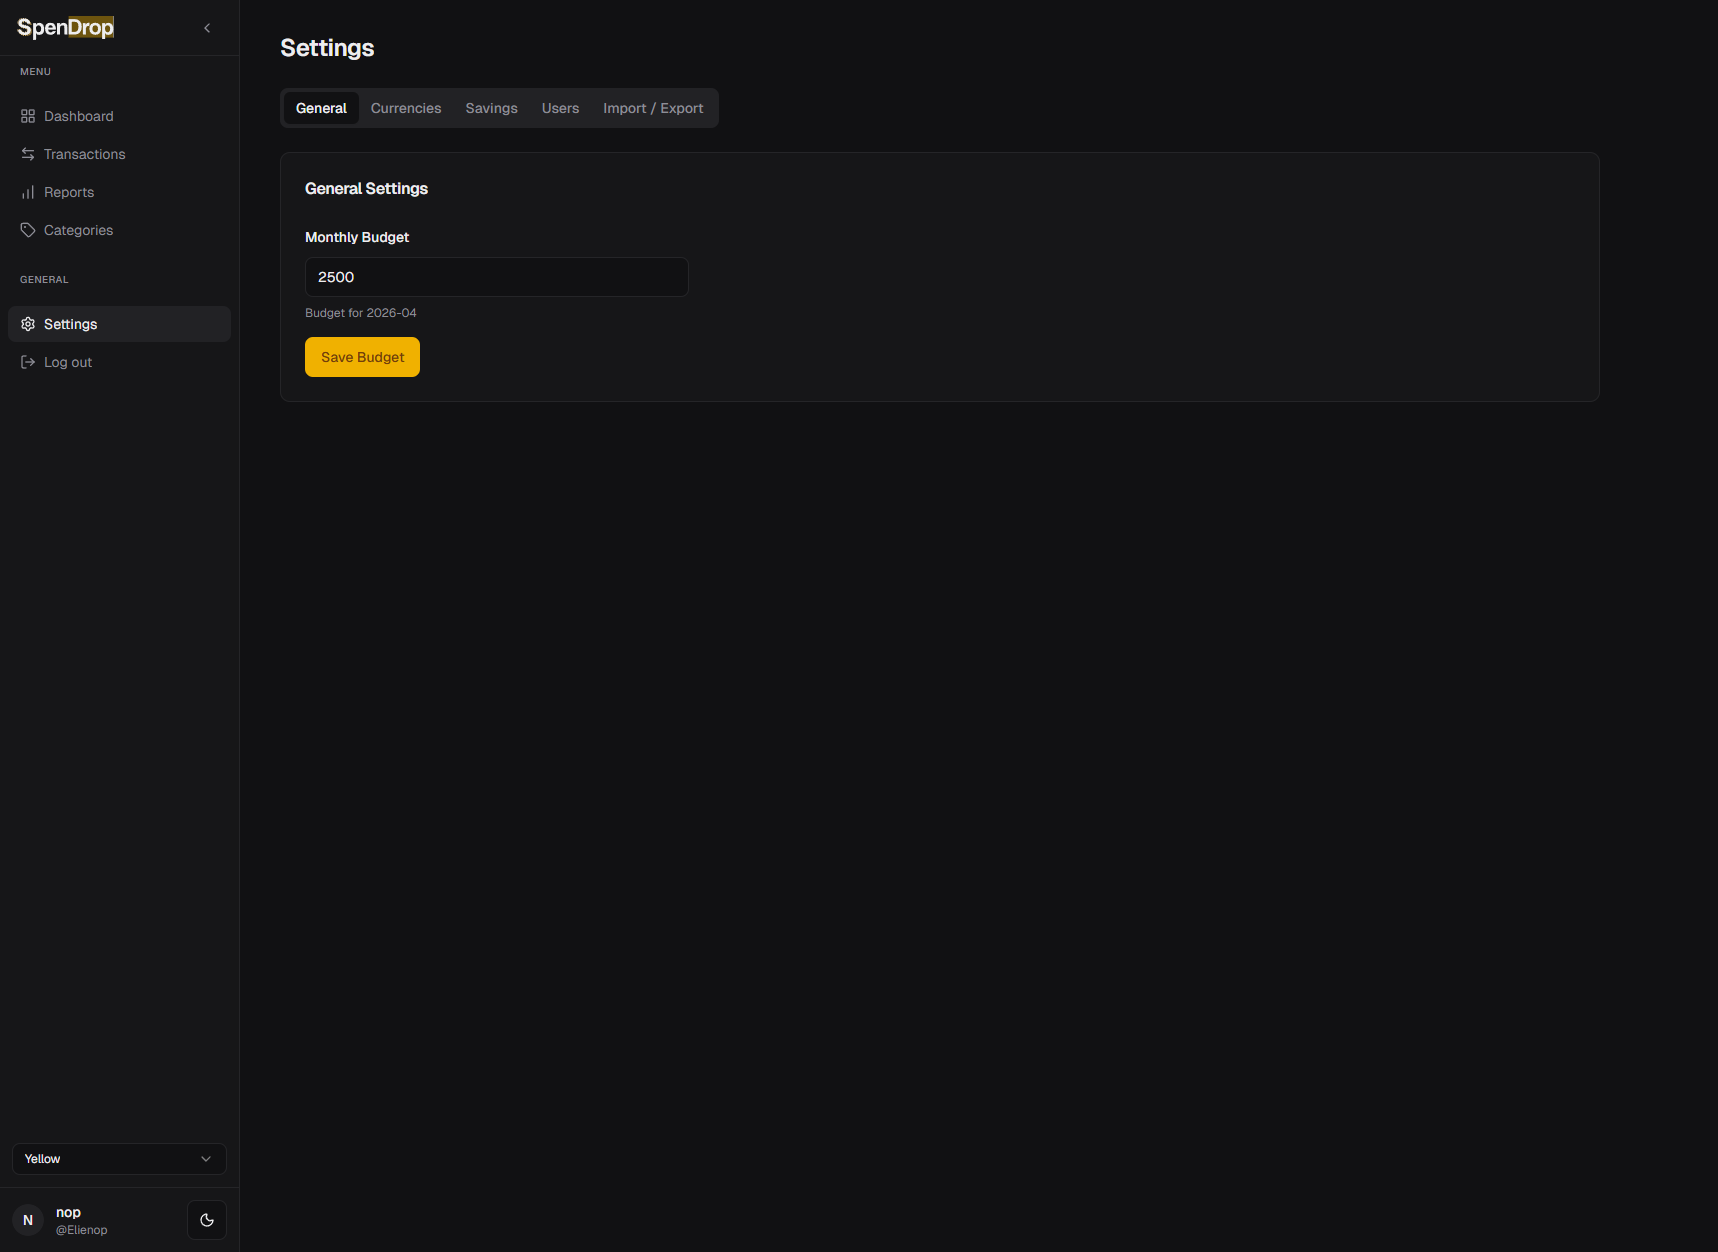
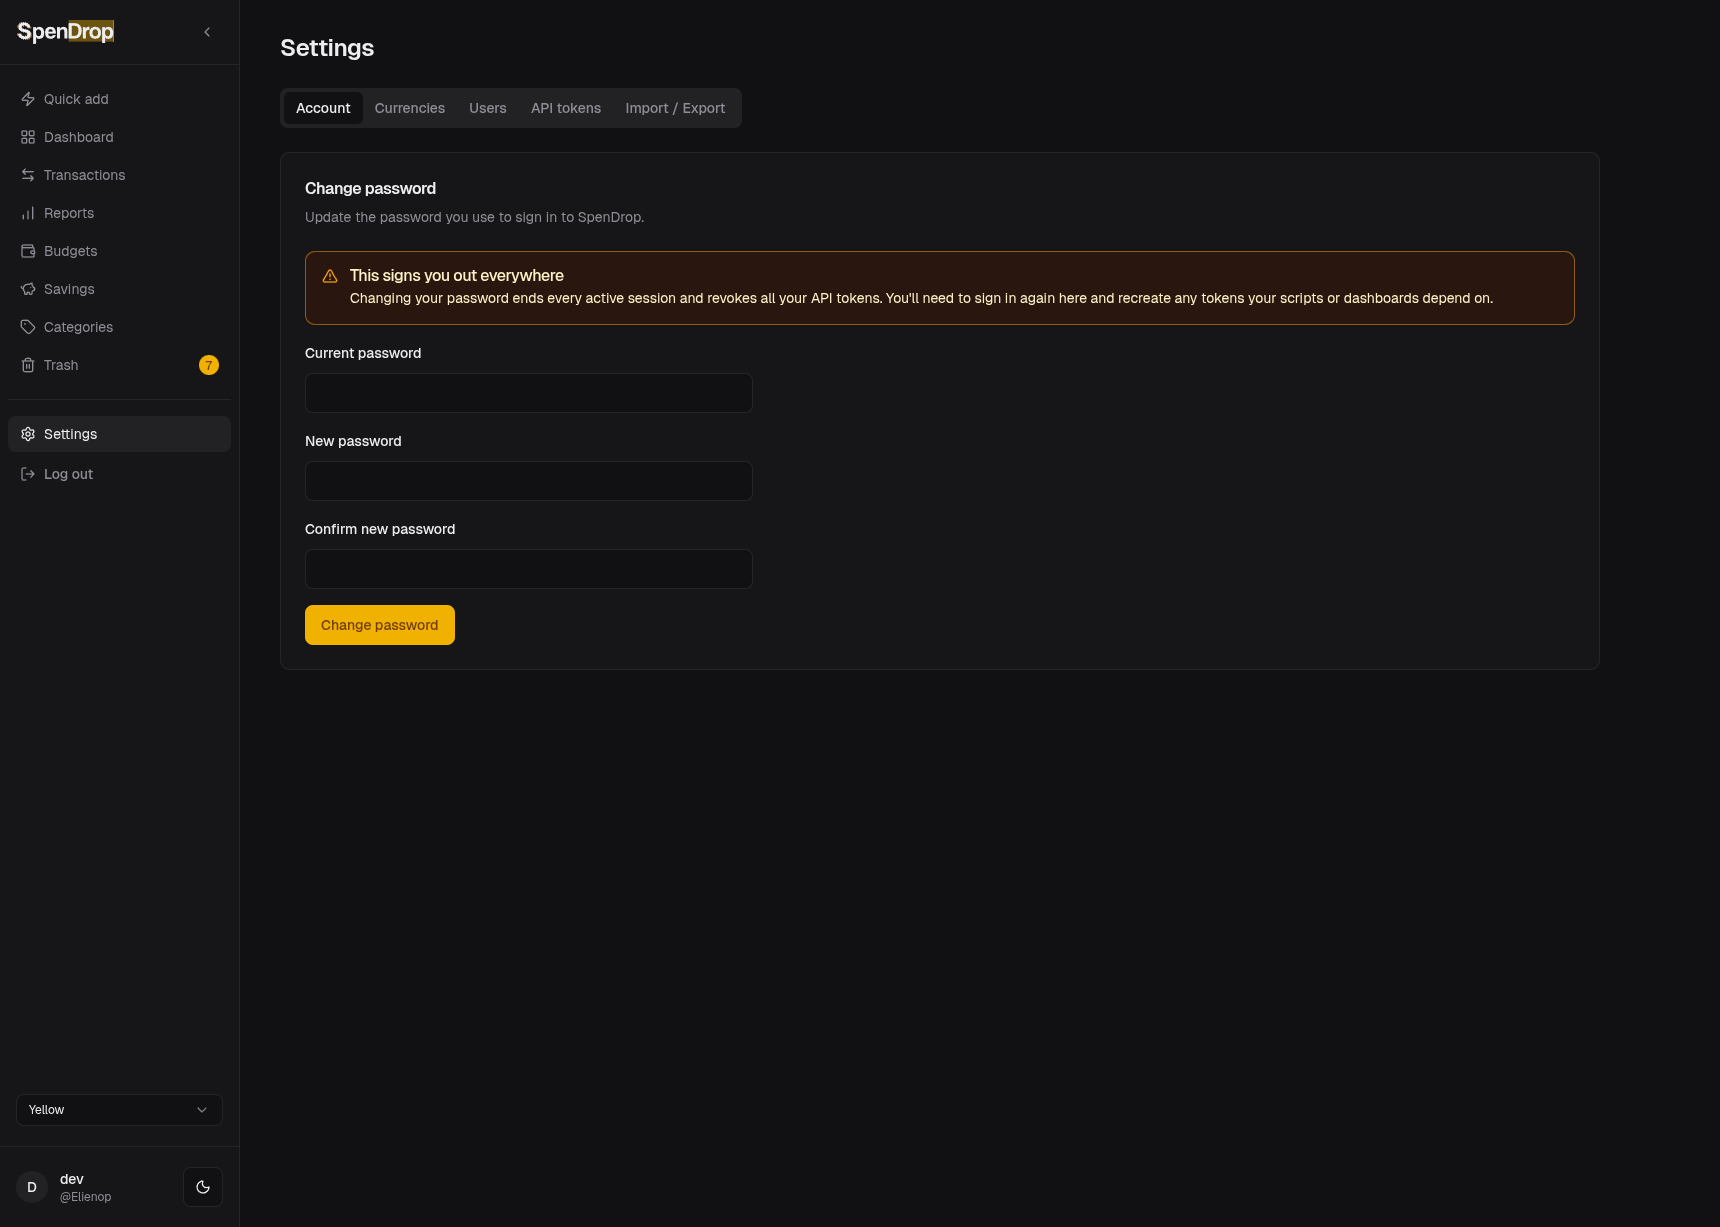
docs(readme): document Budgets and Savings pages + Trash count
- Two new feature sections in the order they sit in the sidebar:
  - **Budgets** — Monthly Budgets + Category Limits on /budgets, with the
    discard-edits guard across year picker, sidebar clicks, and browser
    Back/Forward.
  - **Savings** — Savings Goals on /savings with the replace-existing
    warning and the destructive-action confirm.
- Settings section rewritten: lists the tabs that actually exist now
  (Account · Currencies · Users · API tokens · Import/Export) and points
  old `?tab=budgets|savings|general` bookmarks at the new pages via
  the forwarding toast.
- Additional Features section mentions the Trash count badge (numeric
  pill expanded, colored dot collapsed) and the ColorThemePicker, both
  of which the chosen accent flows through.

Screenshots:
- Replaced docs/screenshots/08-settings.png with the new tab list.
- Added docs/screenshots/11-budgets.png and 12-savings.png.

Older screenshots (01-07) still show the previous sidebar layout —
they remain accurate to their page content; refreshing the sidebar
chrome across all of them is a follow-up if you ever want to.

diff --git a/README.md b/README.md
@@ -80,6 +80,21 @@ Four report tabs covering different angles of your finances:
 ![Reports Savings](docs/screenshots/05-reports-savings.png)
 ![Reports Patterns](docs/screenshots/06-reports-patterns.png)
 
+### Budgets
+
+Plan and track your spending limits on a dedicated page with two editors:
+
+- **Monthly Budgets** -- One row per month for the chosen year. Quick actions apply the same amount to every month or copy the previous year's plan; the year picker, sidebar clicks, and browser Back / Forward all prompt to discard before losing unsaved edits.
+- **Category Limits** -- Optional per-category monthly spending caps. Admins set them; everyone can read them. Compared against actual spend in Reports.
+
+![Budgets](docs/screenshots/11-budgets.png)
+
+### Savings
+
+Yearly **Savings Goals** are set on their own page and tracked under Reports → Savings. Picking a year that already has a goal surfaces a "Replace" warning -- title, button, and toast all flip so the new amount can't silently overwrite the old one. Deletes go through an explicit confirm dialog.
+
+![Savings](docs/screenshots/12-savings.png)
+
 ### Categories
 
 Manage expense and income categories with color-coded badges, type labels (Expense/Income), and per-row action menus (edit, deactivate, delete). Deactivated categories stay attached to past transactions but no longer appear in the entry dropdown.
@@ -88,12 +103,10 @@ Manage expense and income categories with color-coded badges, type labels (Expen
 
 ### Settings
 
-Tabbed settings page:
+Tabbed settings page covering account and system configuration. Monthly Budgets, Category Limits, and Savings Goals each have their own top-level page (see [Budgets](#budgets) and [Savings](#savings) above); old `?tab=budgets` / `?tab=savings` / `?tab=general` bookmarks land on Account with a one-shot toast offering to open the new page directly.
 
-- **General** -- Editable table of monthly budgets for any year (one row per month), plus **Category Limits**: optional per-category monthly spending caps for any month (admins set them; everyone can view).
 - **Account** -- Change your own password. Changing it signs you out everywhere and revokes all of your API tokens. Available to every user.
 - **Currencies** -- Manage currencies with exchange rates (LBP, EUR to USD base)
-- **Savings** -- Yearly savings goals
 - **Users** -- Admin user management (create, edit roles, delete, and reset a member's password)
 - **API tokens** -- Mint, list, and revoke long-lived bearer tokens scoped to your user account. Tokens are show-once on creation (you will never see the plaintext again) and are revoked automatically when you change your password. Use them to authenticate any script, dashboard, or third-party integration against SpenDrop without a browser session — see [Using API tokens](#using-api-tokens) for curl and Homepage examples.
 - **Import / Export** -- Upload Excel files, preview and edit rows inline (date / description / amount), mark rows to skip, resolve duplicate-content collisions before confirming; export transactions or monthly/yearly reports. Sessions persist for 60 minutes and survive browser reloads.
@@ -110,7 +123,8 @@ Simple username/password auth with bcrypt hashing and HTTP-only session cookies.
 ### Additional Features
 
 - **Dark and light themes** with system preference detection, toggle in sidebar
-- **Collapsible sidebar** with pin toggle, state persisted in localStorage
+- **Collapsible sidebar** with pin toggle, state persisted in localStorage. A small counter next to **Trash** shows how many transactions are waiting to be restored or purged (a colored dot in collapsed mode), tinted to the user's chosen accent theme
+- **Color theme picker** in the sidebar (Violet, Yellow, Blue, ...) -- the chosen accent flows through buttons, the active sidebar row, and the Trash counter so the whole app stays in palette
 - **Responsive layout** with max-width 1400px for wide-screen readability
 - **Saved filters** -- save and recall transaction filter presets
 - **Bulk operations** -- select transactions on the current page, or select every row matching the current filter across pages, for batch delete or bulk field edit
